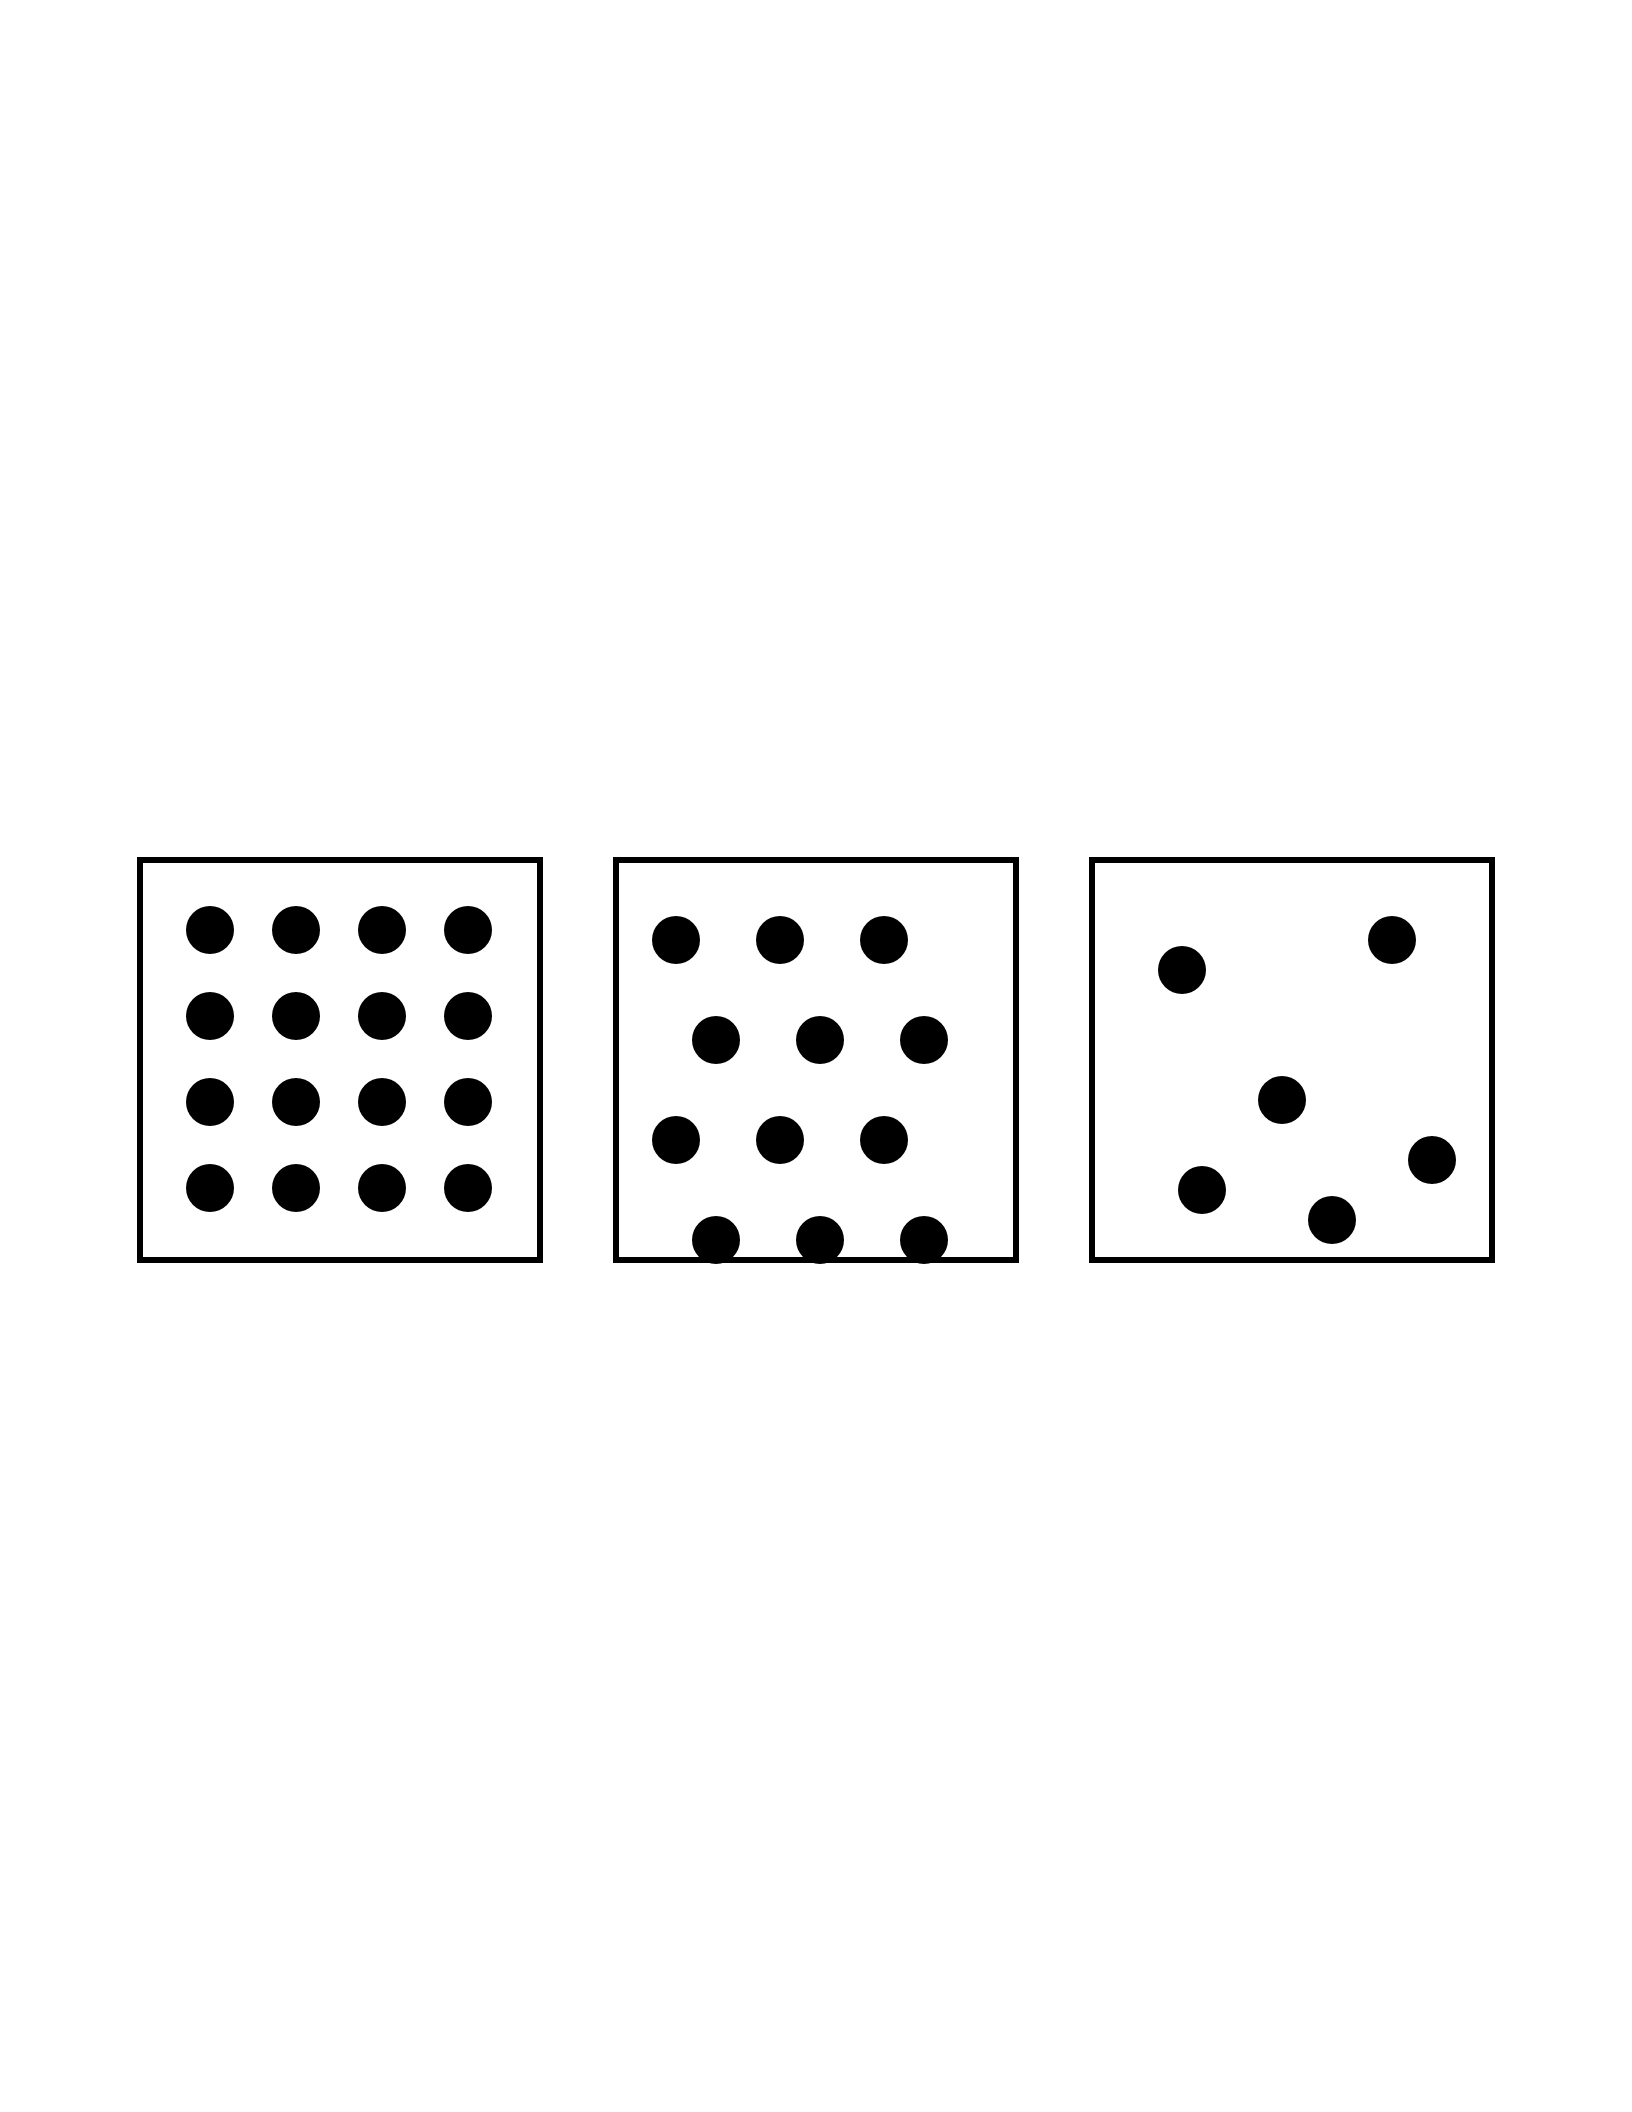
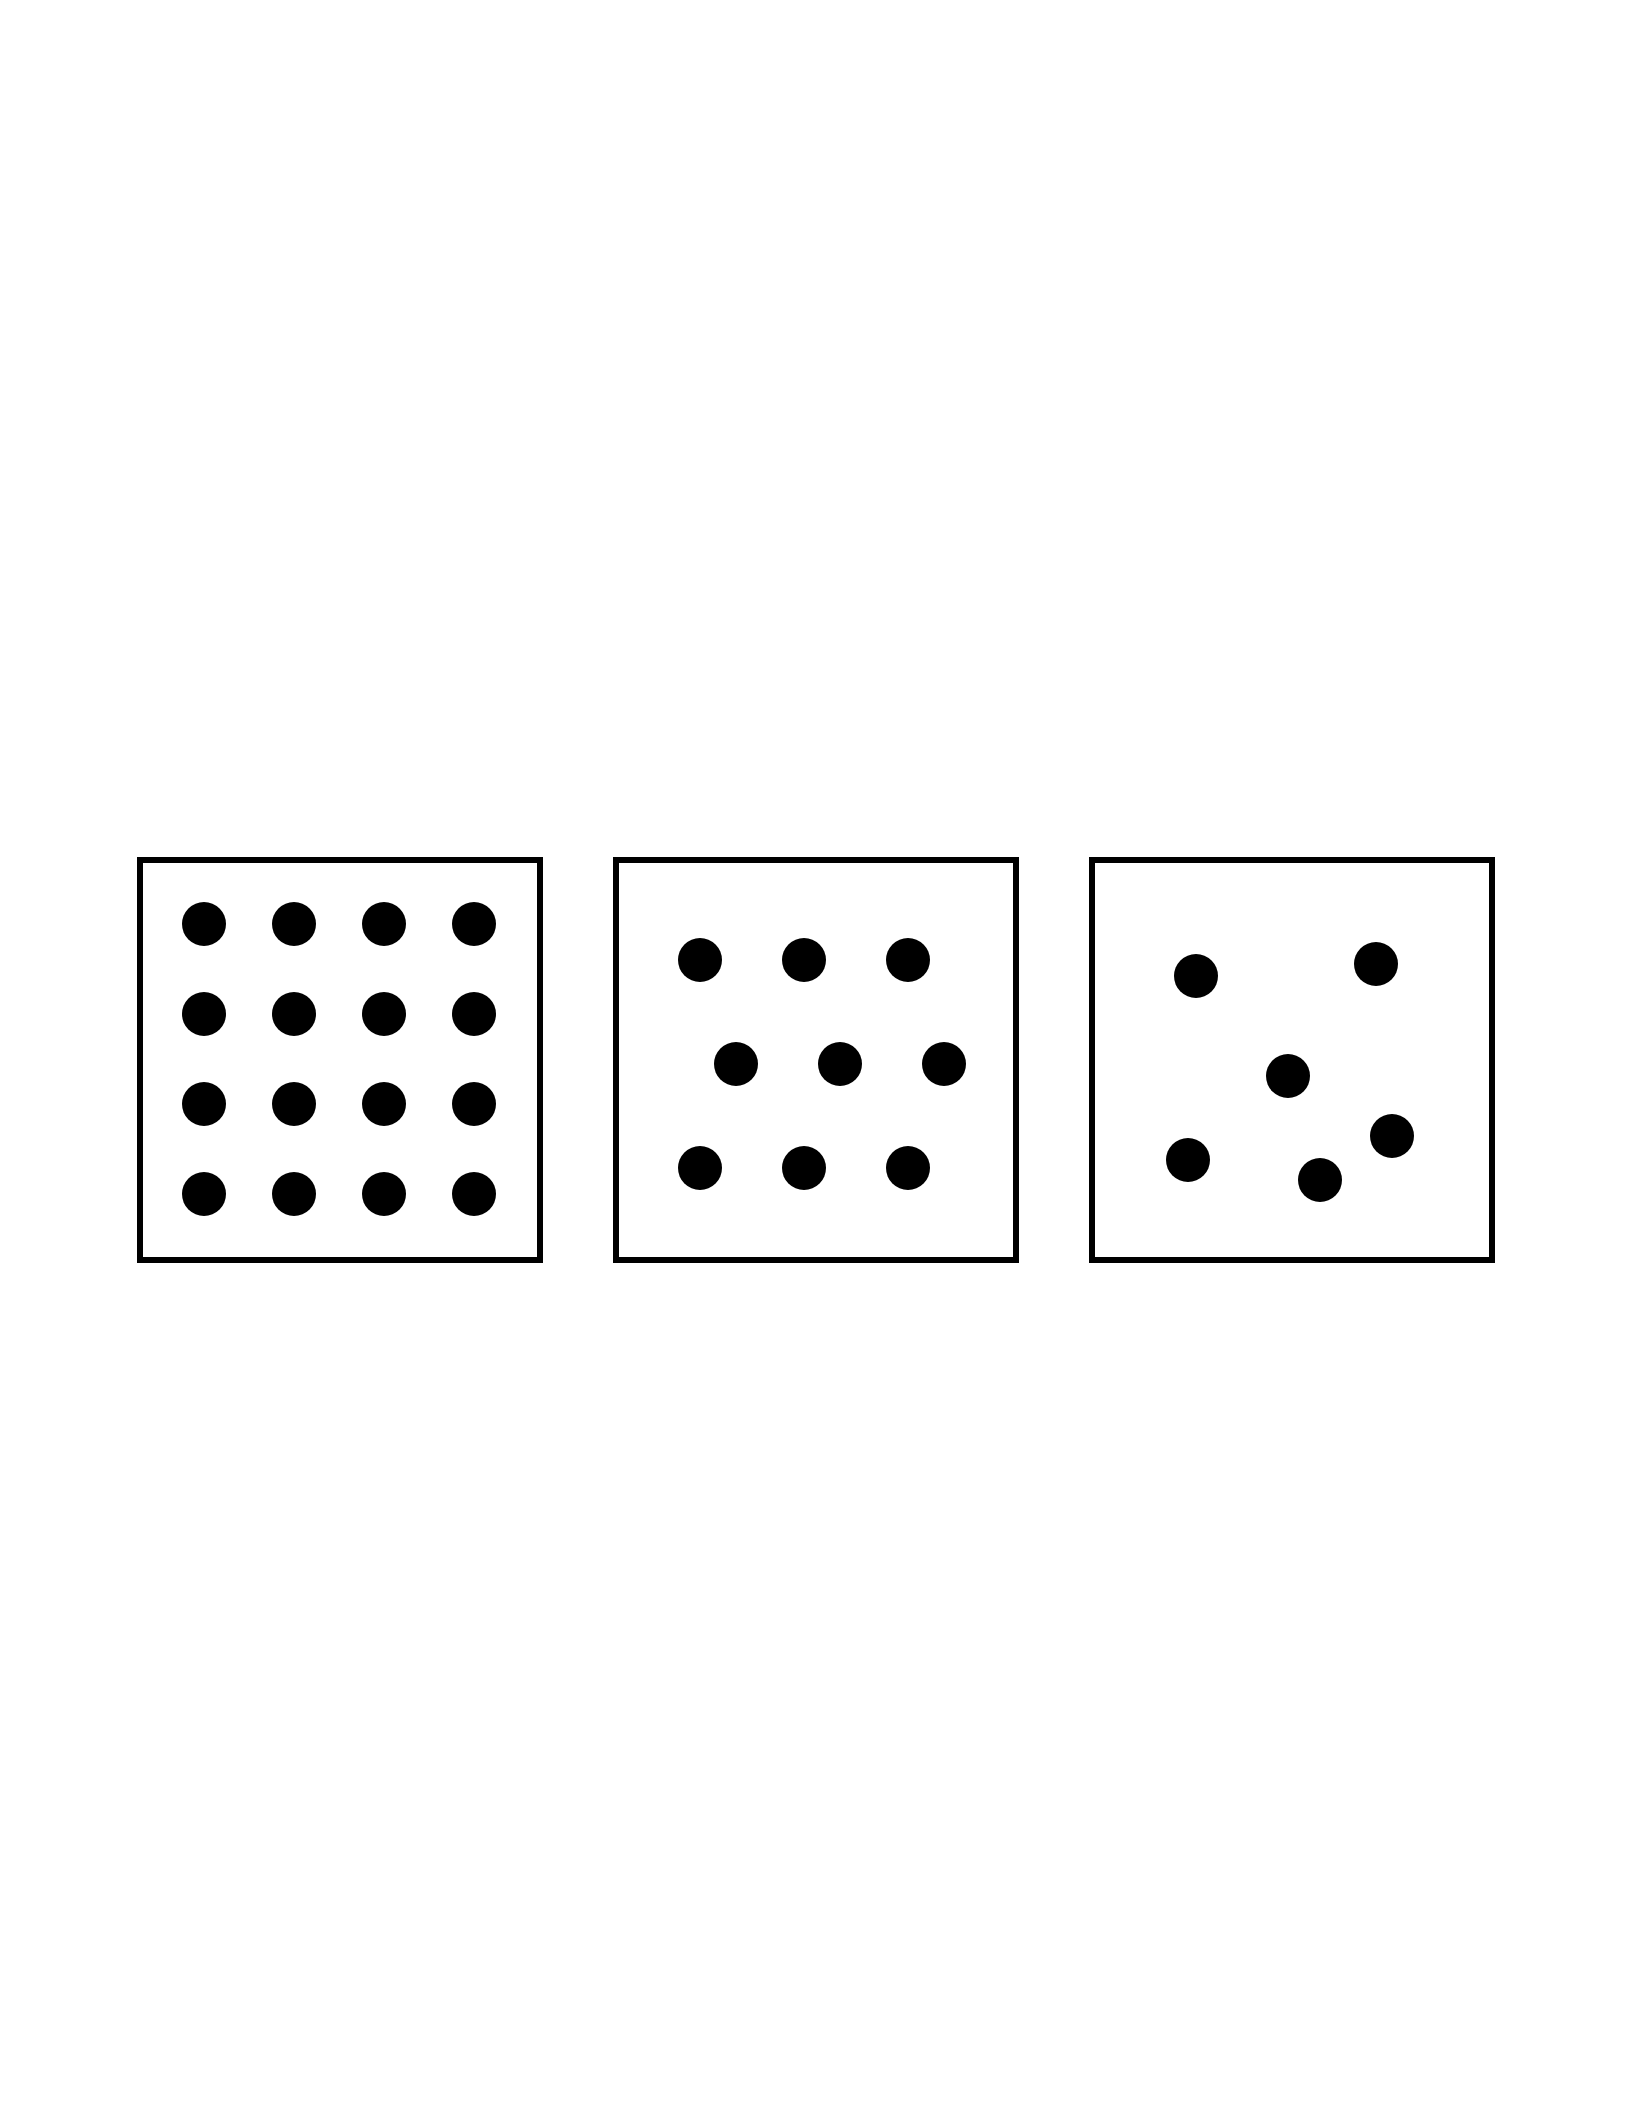
saguides: fix states-of-matter particle insets
Keep all particle centers within the frame so no dot touches or crosses the box
border (the liquid/gas bottom rows previously overflowed). Solid = even 4x4 grid,
liquid = staggered rows, gas = sparse — all with ~20px inner margins.

diff --git a/saguides/tools/generate_aids.py b/saguides/tools/generate_aids.py
@@ -437,15 +437,17 @@ def sci_states_of_matter():
     size = 200
     y = 430
     xs = [70, 308, 546]
-    # solid: ordered packed grid
-    solid = [(35 + c * 43, 35 + rr * 43) for rr in range(4) for c in range(4)]
-    # liquid: looser, offset
-    liquid = [(30 + c * 52 + (rr % 2) * 20, 40 + rr * 50) for rr in range(4) for c in range(3)]
-    # gas: sparse
-    gas = [(45, 55), (150, 40), (95, 120), (170, 150), (55, 165), (120, 180)]
-    s += _particle_box(xs[0], y, size, solid, r=12)
-    s += _particle_box(xs[1], y, size, liquid, r=12)
-    s += _particle_box(xs[2], y, size, gas, r=12)
+    # All particle centers kept within [32, 168] so no dot (r=11) touches the
+    # 0..200 frame (min margin ~21px).
+    # solid: ordered packed 4x4 grid
+    solid = [(32 + c * 45, 32 + rr * 45) for rr in range(4) for c in range(4)]
+    # liquid: looser, staggered rows (3 rows x 3), still fully inside
+    liquid = [(42 + c * 52 + (rr % 2) * 18, 50 + rr * 52) for rr in range(3) for c in range(3)]
+    # gas: sparse, well inside the frame
+    gas = [(52, 58), (142, 52), (98, 108), (150, 138), (48, 150), (114, 160)]
+    s += _particle_box(xs[0], y, size, solid, r=11)
+    s += _particle_box(xs[1], y, size, liquid, r=11)
+    s += _particle_box(xs[2], y, size, gas, r=11)
     return s + svg_close()
 
 
